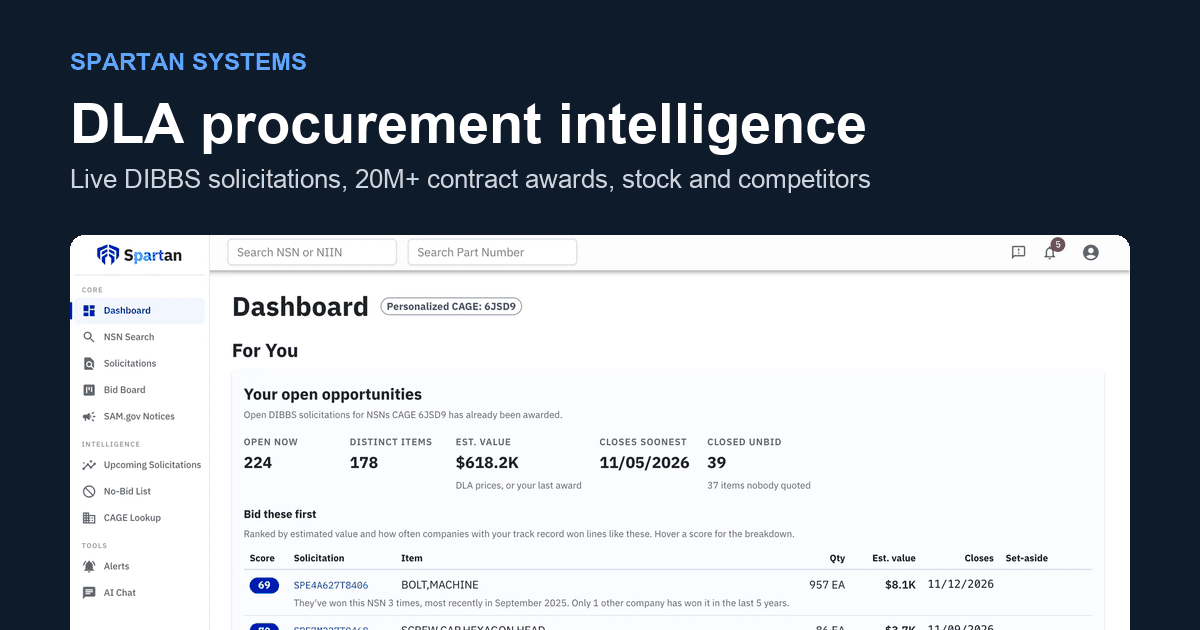
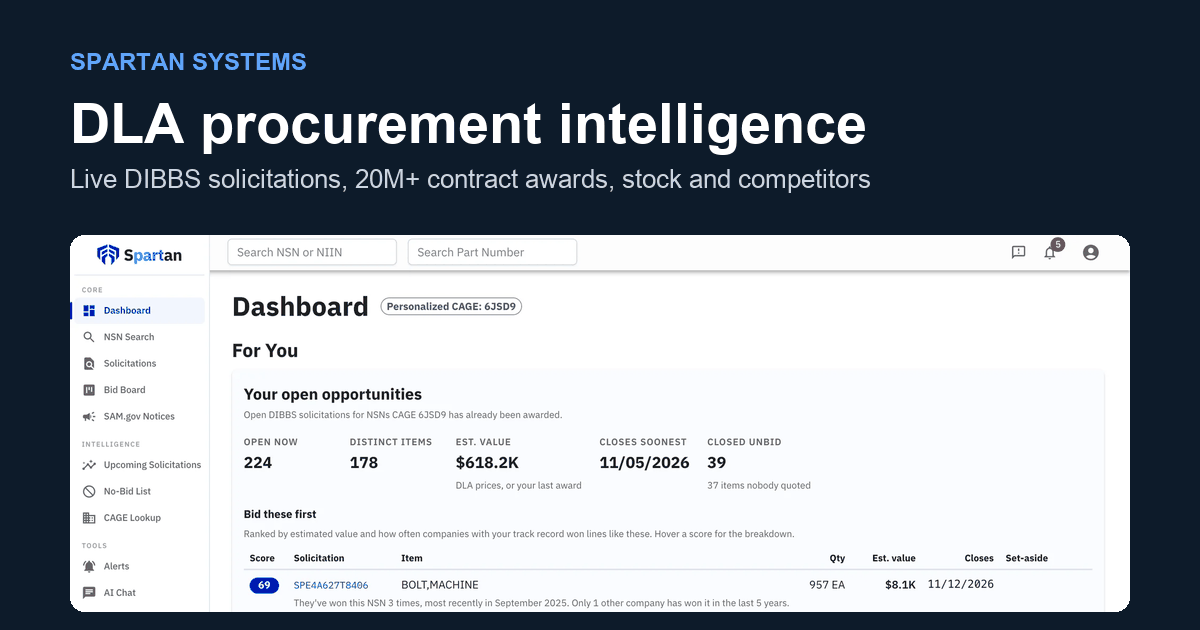
SPAR-266: re-crop og-image, twitter:image:alt, CLAUDE.md note

Changed region(s): [[0.0308, 0.9651, 0.9558, 1.0], [0.2467, 0.9048, 0.2775, 0.9349]]

diff --git a/index.html b/index.html
@@ -19,6 +19,7 @@
 <meta name="twitter:title" content="Spartan Systems | DLA Procurement Intelligence">
 <meta name="twitter:description" content="DLA procurement intelligence for DIBBS suppliers: live solicitations, 20M+ DLA contract awards, stock positions, competitor profiles and a bid board.">
 <meta name="twitter:image" content="https://spartansystems.us/og-image.png">
+<meta name="twitter:image:alt" content="Spartan Systems dashboard showing open DIBBS opportunities">
 <link rel="preconnect" href="https://fonts.googleapis.com">
 <link href="https://fonts.googleapis.com/css2?family=Inter:wght@400;500;600;700&display=swap" rel="stylesheet">
 <style>

diff --git a/CLAUDE.md b/CLAUDE.md
@@ -10,5 +10,6 @@ Static marketing site (home page, privacy policy, terms of service and SMS terms
 - The counts line under the product shot and the two DIBBS coverage cards fill in dated counts from spartan-api's anonymous `GET /api/Site/stats` (CORS allows this origin for that route only). If the call fails the static text stays.
 - The `screen_*.webp` screenshots are of the `government-data` app and go stale when its UI changes. The 2026-11-05 set was taken as the QA account through a read-only proxy to the prod API, personalized to CAGE 6JSD9, a small fastener supplier. Its name is kept out, but the CAGE shows on the dashboard and the pricing vendor table, since both are public award data. `screen_leo.webp` was replaced by `clip_leo.mp4` in SPAR-237. The bid board is made up from that CAGE's real open solicitations and DIBBS awards, with closed lines in the automatic "Awarded on DIBBS" state. Leo's answers on the page are real, asked that day and shortened. `screen_pricing.webp` was retaken on 2026-11-06 (SPAR-218, the confidence chip removed) on the live app as the QA account, same NSN 5306-01-045-6594 and framing. The NSN page doesn't read the user's CAGE, so that shot needs no proxy. `screen_solicitations.webp` was retaken on 2026-11-15, after government-data#192 fixed the clipped select-all checkbox. It was shot on the live app as the QA account, with no proxy, because the list doesn't read the CAGE. The window was 1440×900 at 2x, scaled to 2000×1250 WebP q86.
 - **Plan prices** are plain text in `index.html`, in three places: the counts line under the product shot ("From $…"), the pricing panel's seat table and the final CTA ("from $… per month"). They must match what checkout charges and the app's `/features` page.
+- `og-image.png` (1200×630), `robots.txt` and `sitemap.xml` sit at the root. The description, `og:description` and `twitter:description` strings and the image's "20M+" text change together, along with the app's `public/index.html` copy.
 - Deploy = push to the default branch (Pages serves the branch directly; there is no Actions workflow).
 - `clip_*.mp4` are muted loops (Leo, bid board quote file, search to NSN pricing) recorded 2026-11-13 with the same QA proxy and CAGE 6JSD9: headless Chrome screencast at 2x, cropped to one panel, encoded to H.264 by Chrome's MediaRecorder and remuxed with macOS `avconvert -p PresetPassthrough` so the file has a duration. Each is under 1 MB; `clip_*.webp` is its poster. The page's script plays a clip only while it is on screen and leaves it on its poster under `prefers-reduced-motion`. Every element with `data-expand` (the dashboard shot, the module cards, Leo's clip) gets an Expand button that opens it in the `#viewer` dialog, where clips play with controls; the button's `data-ph-capture-attribute-expand` names the item for PostHog.
